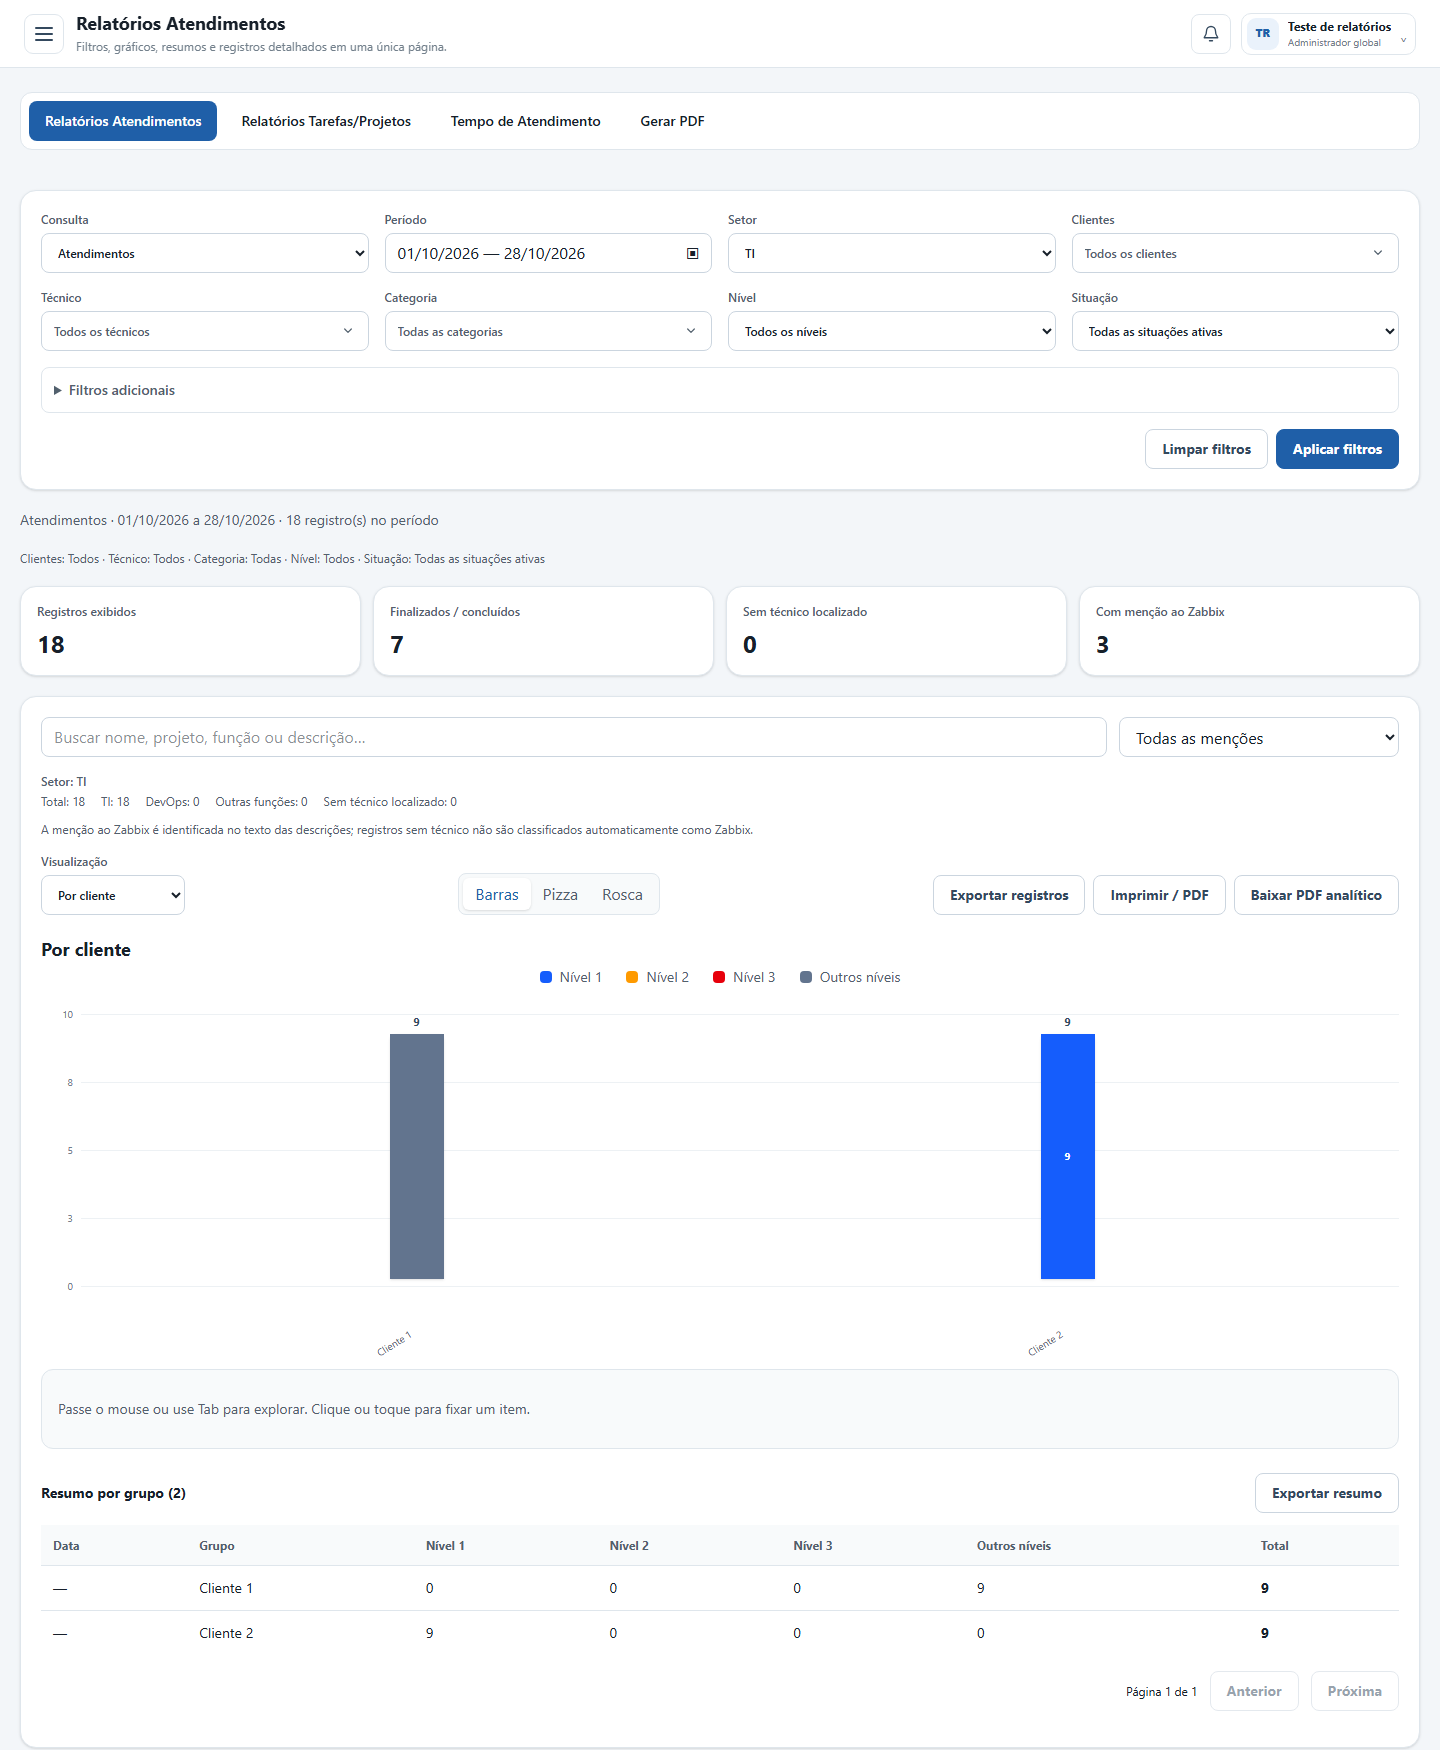
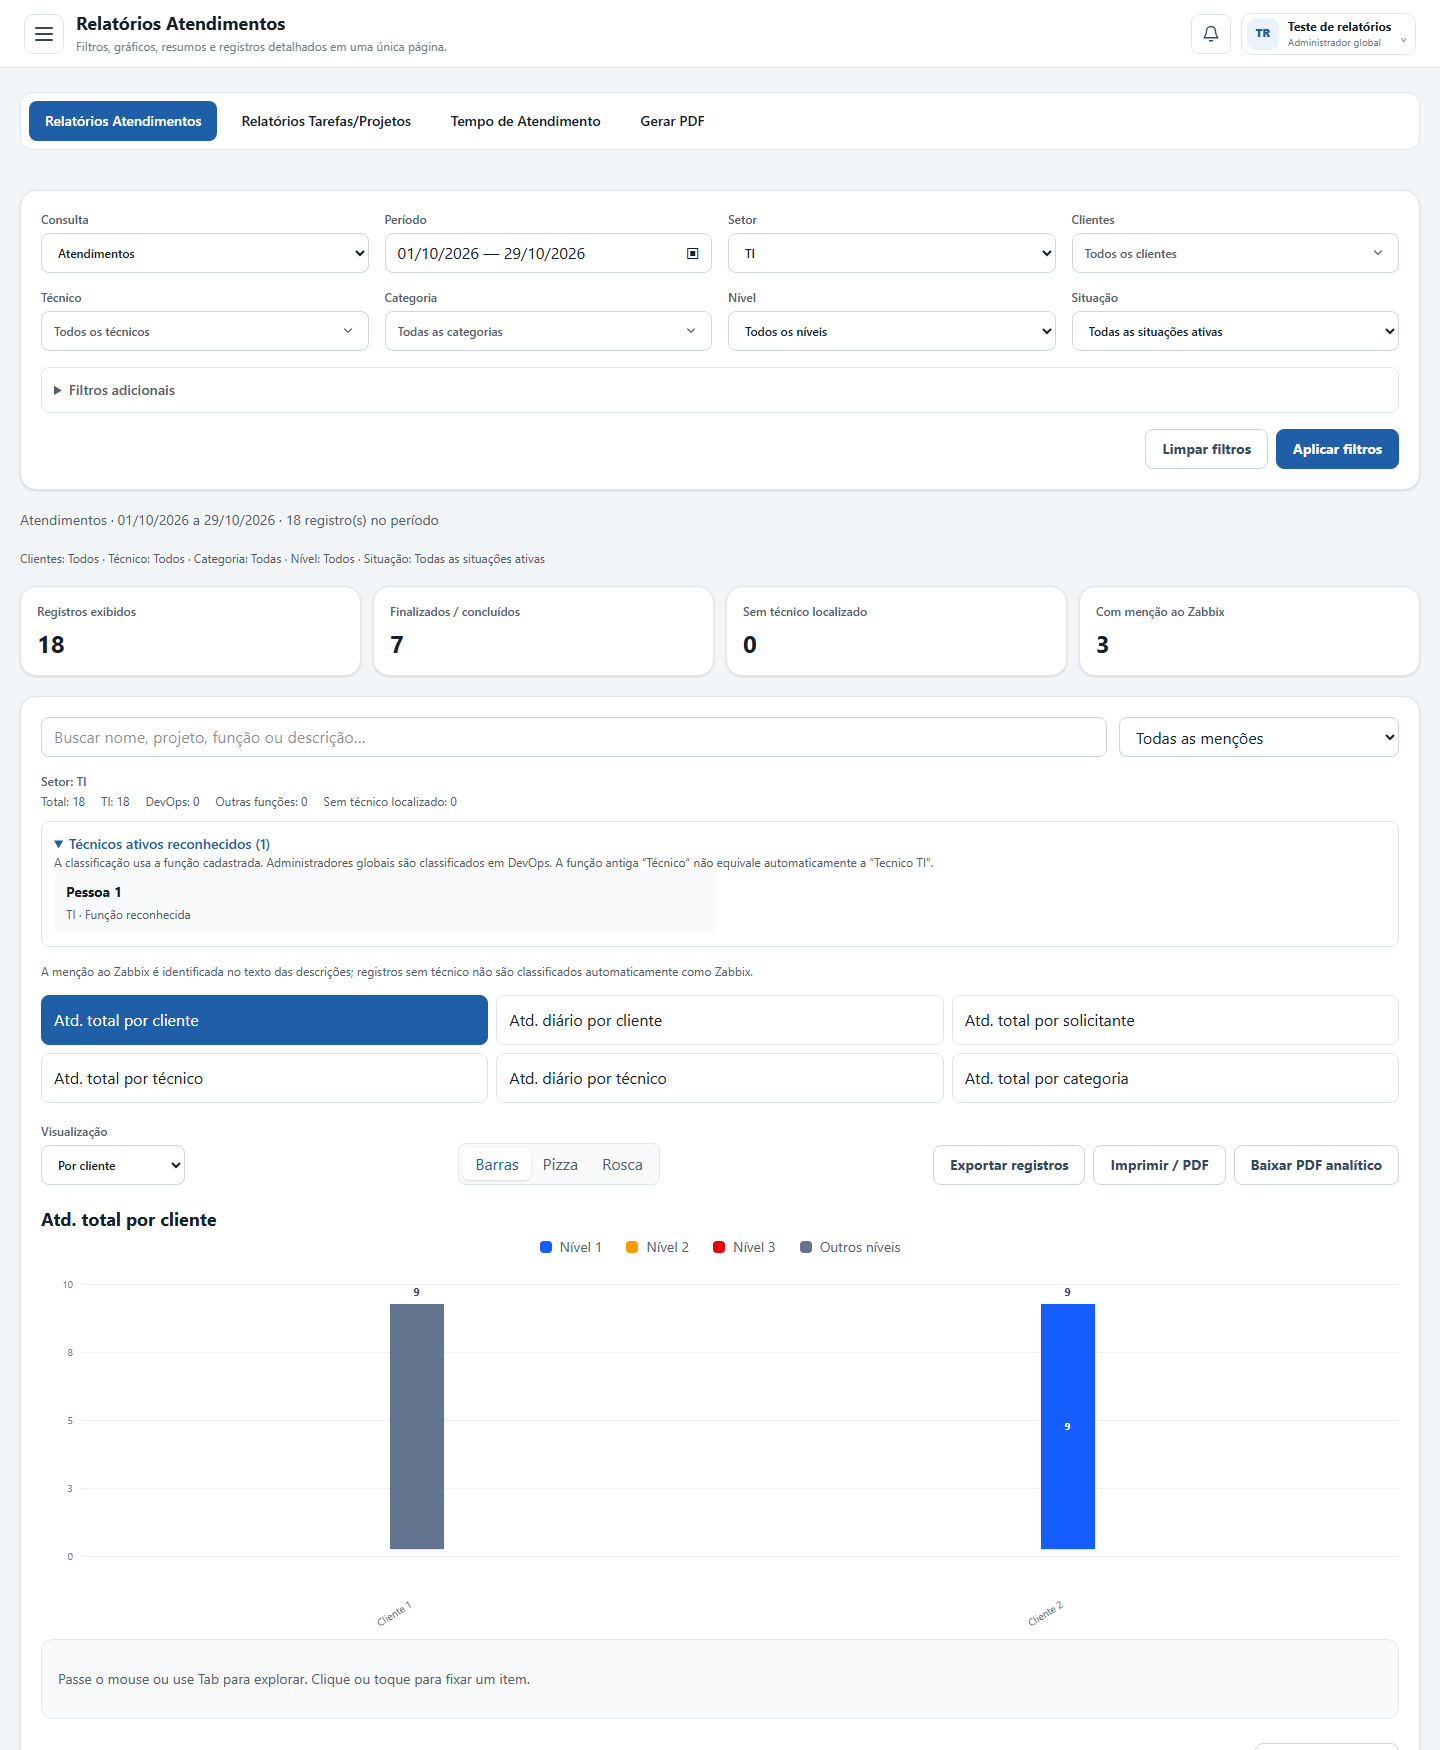
feat(reports): expose attendance views and classify global admins as DevOps

diff --git a/apps/web/src/modules/reports/components/report-center-screen.tsx b/apps/web/src/modules/reports/components/report-center-screen.tsx
@@ -28,6 +28,14 @@ const GROUPS: Array<{ value: ReportGrouping; label: string }> = [
   { value: 'client-daily', label: 'Diário por cliente' }, { value: 'technician-daily', label: 'Diário por técnico' },
   { value: 'project', label: 'Por projeto' }, { value: 'status', label: 'Por situação' },
 ];
+const ATTENDANCE_VIEWS: Array<{ value: ReportGrouping; label: string }> = [
+  { value: 'client', label: 'Atd. total por cliente' },
+  { value: 'client-daily', label: 'Atd. diário por cliente' },
+  { value: 'requester', label: 'Atd. total por solicitante' },
+  { value: 'technician', label: 'Atd. total por técnico' },
+  { value: 'technician-daily', label: 'Atd. diário por técnico' },
+  { value: 'category', label: 'Atd. total por categoria' },
+];
 
 function initialFilters(projects: boolean): Filters {
   return { startDate: '', endDate: '', source: projects ? 'tasks' : 'tickets', sector: 'all', clientIds: [], technicianId: '0', categoryId: '0', locationId: '0', categorySector: '0', projectId: '0', level: '0', status: '0' };
@@ -59,6 +67,7 @@ export function ReportCenterScreen({ currentUser, area }: { currentUser: Current
   const printedDetails = useRef(new Map<HTMLDetailsElement, boolean>());
   const catalogClient = filters.clientIds.length === 1 ? filters.clientIds[0] ?? '0' : '0';
   const canPdf = currentUser.grants.some(grant => grant.permission === 'system.admin' || grant.permission === 'reports.pdf');
+  const groupLabel = (value: ReportGrouping) => (!projects ? ATTENDANCE_VIEWS.find(view => view.value === value)?.label : undefined) ?? GROUPS.find(view => view.value === value)?.label;
 
   useEffect(() => {
     const beforePrint = () => {
@@ -175,11 +184,20 @@ export function ReportCenterScreen({ currentUser, area }: { currentUser: Current
         <section className={`${CARD} p-5`} aria-label="Explorar resultados">
           <div className="mb-4 grid grid-cols-[minmax(0,1fr)_minmax(180px,280px)] gap-3 max-sm:grid-cols-1 print:hidden"><input className={INPUT} aria-label="Buscar nos resultados" placeholder="Buscar nome, projeto, função ou descrição…" value={search} onChange={event => { setSearch(event.target.value); setPage(1); setGroupPage(1); }} type="search" /><select aria-label="Menção ao Zabbix" className={INPUT} value={zabbix} onChange={event => { setZabbix(event.target.value); setPage(1); setGroupPage(1); }}><option value="all">Todas as menções</option><option value="yes">Com menção ao Zabbix</option><option value="no">Sem menção ao Zabbix</option></select></div>
           <ReportSectorSummary value={report.filters.sector} coverage={coverage} />
+          <details className="mb-4 rounded-lg border border-app-border p-3 print:hidden" data-recognized-technicians>
+            <summary className="cursor-pointer text-sm font-semibold text-app-brand">Técnicos ativos reconhecidos ({sectorTechnicians(catalog, report.filters.sector ?? 'all').length})</summary>
+            <p className="text-xs text-app-muted">A classificação usa a função cadastrada. Administradores globais são classificados em DevOps. A função antiga “Técnico” não equivale automaticamente a “Tecnico TI”.</p>
+            <ul className="m-0 grid list-none gap-2 p-0 sm:grid-cols-2">{sectorTechnicians(catalog, report.filters.sector ?? 'all').map(technician => <li key={technician.id} className="rounded-lg bg-app-surface-muted p-3 text-sm"><strong>{technician.name}</strong><span className="mt-1 block text-xs text-app-muted">{technician.sector === 'ti' ? 'TI' : 'DevOps'} · {technician.functionName || 'Função reconhecida'}</span></li>)}</ul>
+            {!sectorTechnicians(catalog, report.filters.sector ?? 'all').length ? <p className="text-sm text-app-muted">Nenhum técnico ativo reconhecido neste setor.</p> : null}
+          </details>
           <p className="mb-4 mt-0 text-xs text-app-muted">A menção ao Zabbix é identificada no texto das descrições; registros sem técnico não são classificados automaticamente como Zabbix.</p>
+          {!projects ? <div className="mb-5 grid gap-2 sm:grid-cols-2 lg:grid-cols-3 print:hidden" role="group" aria-label="Relatórios de atendimentos">
+            {ATTENDANCE_VIEWS.map(view => <button type="button" key={view.value} aria-pressed={grouping === view.value} onClick={() => { setGrouping(view.value); setGroupPage(1); }} className={`min-h-12 rounded-lg border px-3 py-3 text-left text-sm font-semibold transition-colors focus-visible:outline-2 focus-visible:outline-app-brand ${grouping === view.value ? 'border-app-brand bg-app-brand text-white' : 'border-app-border bg-app-surface hover:bg-app-surface-hover'}`}>{view.label}</button>)}
+          </div> : null}
           <div className="flex flex-wrap items-end justify-between gap-3 print:hidden"><label className="grid gap-1.5 text-xs font-semibold text-app-muted">Visualização<select aria-label="Visualização" className={INPUT} value={grouping} onChange={event => { setGrouping(event.target.value as ReportGrouping); setGroupPage(1); }}>{GROUPS.filter(group => projects || group.value !== 'project').map(group => <option key={group.value} value={group.value}>{group.label}</option>)}</select></label><ReportChartTypePicker value={chartType} onChange={setChartType} /><div className="flex flex-wrap gap-2"><button className={SECONDARY} disabled={!rows.length} onClick={exportRows} type="button">Exportar registros</button><button className={SECONDARY} onClick={() => window.print()} type="button">Imprimir / PDF</button>{canPdf ? <button className={SECONDARY} disabled={exporting || Boolean(search.trim()) || zabbix !== 'all'} onClick={() => void exportPdf()} type="button" title="PDF do período e dos filtros aplicados. Limpe a busca e o filtro de menção para baixar.">{exporting ? 'Preparando…' : 'Baixar PDF analítico'}</button> : null}</div></div>
-          <h2 className="mb-1 mt-5 text-lg font-bold">{GROUPS.find(group => group.value === grouping)?.label}</h2>
+          <h2 className="mb-1 mt-5 text-lg font-bold">{groupLabel(grouping)}</h2>
           {groups.length > 20 ? <p className="text-xs text-app-muted">O gráfico reúne os 20 maiores grupos e os demais. O resumo e a exportação incluem todos os grupos.</p> : null}
-          <ReportChartView rows={chartRows} type={chartType} />
+          <ReportChartView key={`${report.filters.source}:${grouping}`} rows={chartRows} type={chartType} />
           <div className="mb-3 mt-6 flex flex-wrap items-center justify-between gap-3"><h3 className="m-0 text-sm font-bold">Resumo por grupo ({groups.length})</h3><button type="button" className={`${SECONDARY} print:hidden`} disabled={!groups.length} onClick={() => downloadCsv(`resumo-${grouping}.csv`, [['Data', 'Grupo', 'Nível 1', 'Nível 2', 'Nível 3', 'Outros níveis', 'Total'], ...groups.map(row => [row.date ?? '', row.label, row.level1, row.level2, row.level3, row.other ?? 0, row.total])])}>Exportar resumo</button></div>
           <div className="overflow-x-auto"><table className="w-full min-w-[650px] border-collapse text-left text-sm"><thead className="bg-app-surface-muted text-xs text-app-muted"><tr>{['Data', 'Grupo', 'Nível 1', 'Nível 2', 'Nível 3', 'Outros níveis', 'Total'].map(label => <th className="p-3" key={label}>{label}</th>)}</tr></thead><tbody>{(printing ? groups : groups.slice((activeGroupPage - 1) * PAGE_SIZE, activeGroupPage * PAGE_SIZE)).map(row => <tr key={row.key} className="border-t border-app-border"><td className="whitespace-nowrap p-3">{row.date?.split('-').reverse().join('/') ?? '—'}</td><td className="p-3">{row.label}</td><td className="p-3">{row.level1}</td><td className="p-3">{row.level2}</td><td className="p-3">{row.level3}</td><td className="p-3">{row.other ?? 0}</td><td className="p-3 font-bold">{row.total}</td></tr>)}</tbody></table></div>
           <Pagination page={activeGroupPage} pages={groupPages} onChange={setGroupPage} label="grupos" />

diff --git a/apps/api/src/modules/reports/infrastructure/prisma-ticket-analytics.repository.ts b/apps/api/src/modules/reports/infrastructure/prisma-ticket-analytics.repository.ts
@@ -1,5 +1,5 @@
 import type { ReportSector } from '@helpdesk/contracts';
-import { appendReportSector, NORMALIZED_REPORT_FUNCTION, sectorFunctionNames } from './report-sector';
+import { appendReportSector, sectorRoleCondition, sectorFunctionNames } from './report-sector';
 import { BadRequestException, Inject, Injectable } from '@nestjs/common';
 import type { Nivel3DatabaseClient } from '@helpdesk/database';
 import type { TicketAnalyticsFilters, TicketAnalyticsResponse, TicketAnalyticsRow, TicketReportCatalog, TicketTechnicianTimingDetail, TicketTechnicianTimingFilters, TicketTechnicianTimingResponse, TechnicianWorkloadResponse, ReportOption } from '@helpdesk/contracts';
@@ -65,8 +65,8 @@ export class PrismaTicketAnalyticsRepository extends TicketAnalyticsRepository {
           COALESCE(p.pessoa_nom, '') AS requesterName, COALESCE(u.user_nome, 'Sem técnico') AS technicianName,
           COALESCE(p.pessoa_id, 0) AS requesterId, COALESCE(cat.cat_id, 0) AS categoryId,
           COALESCE(u.user_id, 0) AS technicianId, COALESCE(rs_role.cargo_nome, '') AS technicianFunction,
-          CASE WHEN ${NORMALIZED_REPORT_FUNCTION} IN (${sectorFunctionNames('ti').map(() => '?').join(', ')}) THEN 'ti'
-            WHEN ${NORMALIZED_REPORT_FUNCTION} IN (${sectorFunctionNames('devops').map(() => '?').join(', ')}) THEN 'devops'
+          CASE WHEN ${sectorRoleCondition('ti')} THEN 'ti'
+            WHEN ${sectorRoleCondition('devops')} THEN 'devops'
             ELSE NULL END AS technicianSector,
           COALESCE(cat.cat_nome, '') AS categoryName, COALESCE(sub.scat_nome, '') AS subcategoryName,
           COALESCE(i.itens_nome, '') AS itemName,
@@ -120,7 +120,7 @@ export class PrismaTicketAnalyticsRepository extends TicketAnalyticsRepository {
       ? await this.database.$queryRawUnsafe<ReportOption[]>(`SELECT local_id AS id, local_nom AS name FROM locais WHERE local_clt = ? ORDER BY local_nom`, clientId) : [];
     const names = sectorFunctionNames('all');
     const technicians = visibility.restrictClients && !visibility.clientIds.length ? [] : await this.database.$queryRawUnsafe<TicketReportCatalog['technicians']>(
-      `SELECT u.user_id AS id, u.user_nome AS name, CASE WHEN ${NORMALIZED_REPORT_FUNCTION} IN (?, ?, ?) THEN 'ti' ELSE 'devops' END AS sector FROM usuarios u INNER JOIN cargos_n3 rs_role ON rs_role.cargo_id = u.user_funcao WHERE u.user_sts = 1 AND ${NORMALIZED_REPORT_FUNCTION} IN (${names.map(() => '?').join(', ')}) ORDER BY u.user_nome`, ...sectorFunctionNames('ti'), ...names);
+      `SELECT u.user_id AS id, u.user_nome AS name, rs_role.cargo_nome AS functionName, COALESCE(rs_role.is_global_admin, 0) AS isGlobalAdmin, CASE WHEN ${sectorRoleCondition('ti')} THEN 'ti' ELSE 'devops' END AS sector FROM usuarios u INNER JOIN cargos_n3 rs_role ON rs_role.cargo_id = u.user_funcao WHERE u.user_sts = 1 AND ${sectorRoleCondition('all')} ORDER BY u.user_nome`, ...sectorFunctionNames('ti'), ...names);
     const categories = visibility.restrictClients && !visibility.clientIds.length
       ? []
       : await this.database.$queryRawUnsafe<ReportOption[]>(
@@ -135,7 +135,7 @@ export class PrismaTicketAnalyticsRepository extends TicketAnalyticsRepository {
     if (clientId) { projectWhere.push('a.cliente = ?'); projectParams.push(clientId); }
     const projects = includeProjects ? await this.database.$queryRawUnsafe<ReportOption[]>(
       `SELECT a.id AS id, COALESCE(NULLIF(a.nome_proj, ''), CONCAT('Projeto #', a.id)) AS name FROM projetos a WHERE ${projectWhere.join(' AND ')} ORDER BY a.nome_proj, a.id`, ...projectParams) : undefined;
-    return { clients, locations, technicians, categories, ...(projects ? { projects } : {}) };
+    return { clients, locations, technicians: technicians.map(technician => ({ ...technician, isGlobalAdmin: Boolean(technician.isGlobalAdmin) })), categories, ...(projects ? { projects } : {}) };
   }
 
   async technicianTiming(

diff --git a/apps/api/src/modules/reports/infrastructure/report-sector.ts b/apps/api/src/modules/reports/infrastructure/report-sector.ts
@@ -3,7 +3,7 @@ import type { ReportSector } from '@helpdesk/contracts';
 
 const FUNCTIONS = {
   ti: ['gestor ti', 'analista ti', 'tecnico ti'],
-  devops: ['gestor devops', 'analista devops', 'tecnico devops'],
+  devops: ['gestor devops', 'analista devops', 'tecnico devops', 'administrador global'],
 } as const;
 
 export function reportSector(value: unknown): ReportSector {
@@ -19,10 +19,19 @@ export function sectorFunctionNames(sector: ReportSector): readonly string[] {
 // Fixed identifiers only; names remain bound parameters. Ignore accents in Técnico.
 export const NORMALIZED_REPORT_FUNCTION = "REPLACE(LOWER(TRIM(rs_role.cargo_nome)), 'é', 'e')";
 
+export function sectorRoleCondition(sector: ReportSector): string {
+  const names = sectorFunctionNames(sector);
+  const named = `${NORMALIZED_REPORT_FUNCTION} IN (${names.map(() => '?').join(', ')})`;
+  // Global administration remains DevOps even if its protected role is renamed.
+  return sector === 'ti'
+    ? `(COALESCE(rs_role.is_global_admin, 0) = 0 AND ${named})`
+    : `(COALESCE(rs_role.is_global_admin, 0) = 1 OR ${named})`;
+}
+
 export function appendReportSector(where: string[], params: unknown[], value: ReportSector | undefined, technicianColumn = 'a.tecnico', onlyTechnicians = false) {
   const sector = reportSector(value);
   if (sector === 'all' && !onlyTechnicians) return;
   const names = sectorFunctionNames(sector);
-  where.push(`EXISTS (SELECT 1 FROM usuarios rs_user INNER JOIN cargos_n3 rs_role ON rs_role.cargo_id = rs_user.user_funcao WHERE rs_user.user_id = ${technicianColumn} AND ${NORMALIZED_REPORT_FUNCTION} IN (${names.map(() => '?').join(', ')}))`);
+  where.push(`EXISTS (SELECT 1 FROM usuarios rs_user INNER JOIN cargos_n3 rs_role ON rs_role.cargo_id = rs_user.user_funcao WHERE rs_user.user_id = ${technicianColumn} AND ${sectorRoleCondition(sector)} )`);
   params.push(...names);
 }

diff --git a/packages/contracts/src/reports/ticket-analytics.ts b/packages/contracts/src/reports/ticket-analytics.ts
@@ -23,7 +23,7 @@ export interface ReportOption { id: number; name: string }
 export interface TicketReportCatalog {
   clients: ReportOption[];
   locations: ReportOption[];
-  technicians: Array<ReportOption & { sector?: Exclude<ReportSector, 'all'> | null }>;
+  technicians: Array<ReportOption & { sector?: Exclude<ReportSector, 'all'> | null; functionName?: string; isGlobalAdmin?: boolean }>;
   categories: ReportOption[];
   projects?: ReportOption[];
 }
